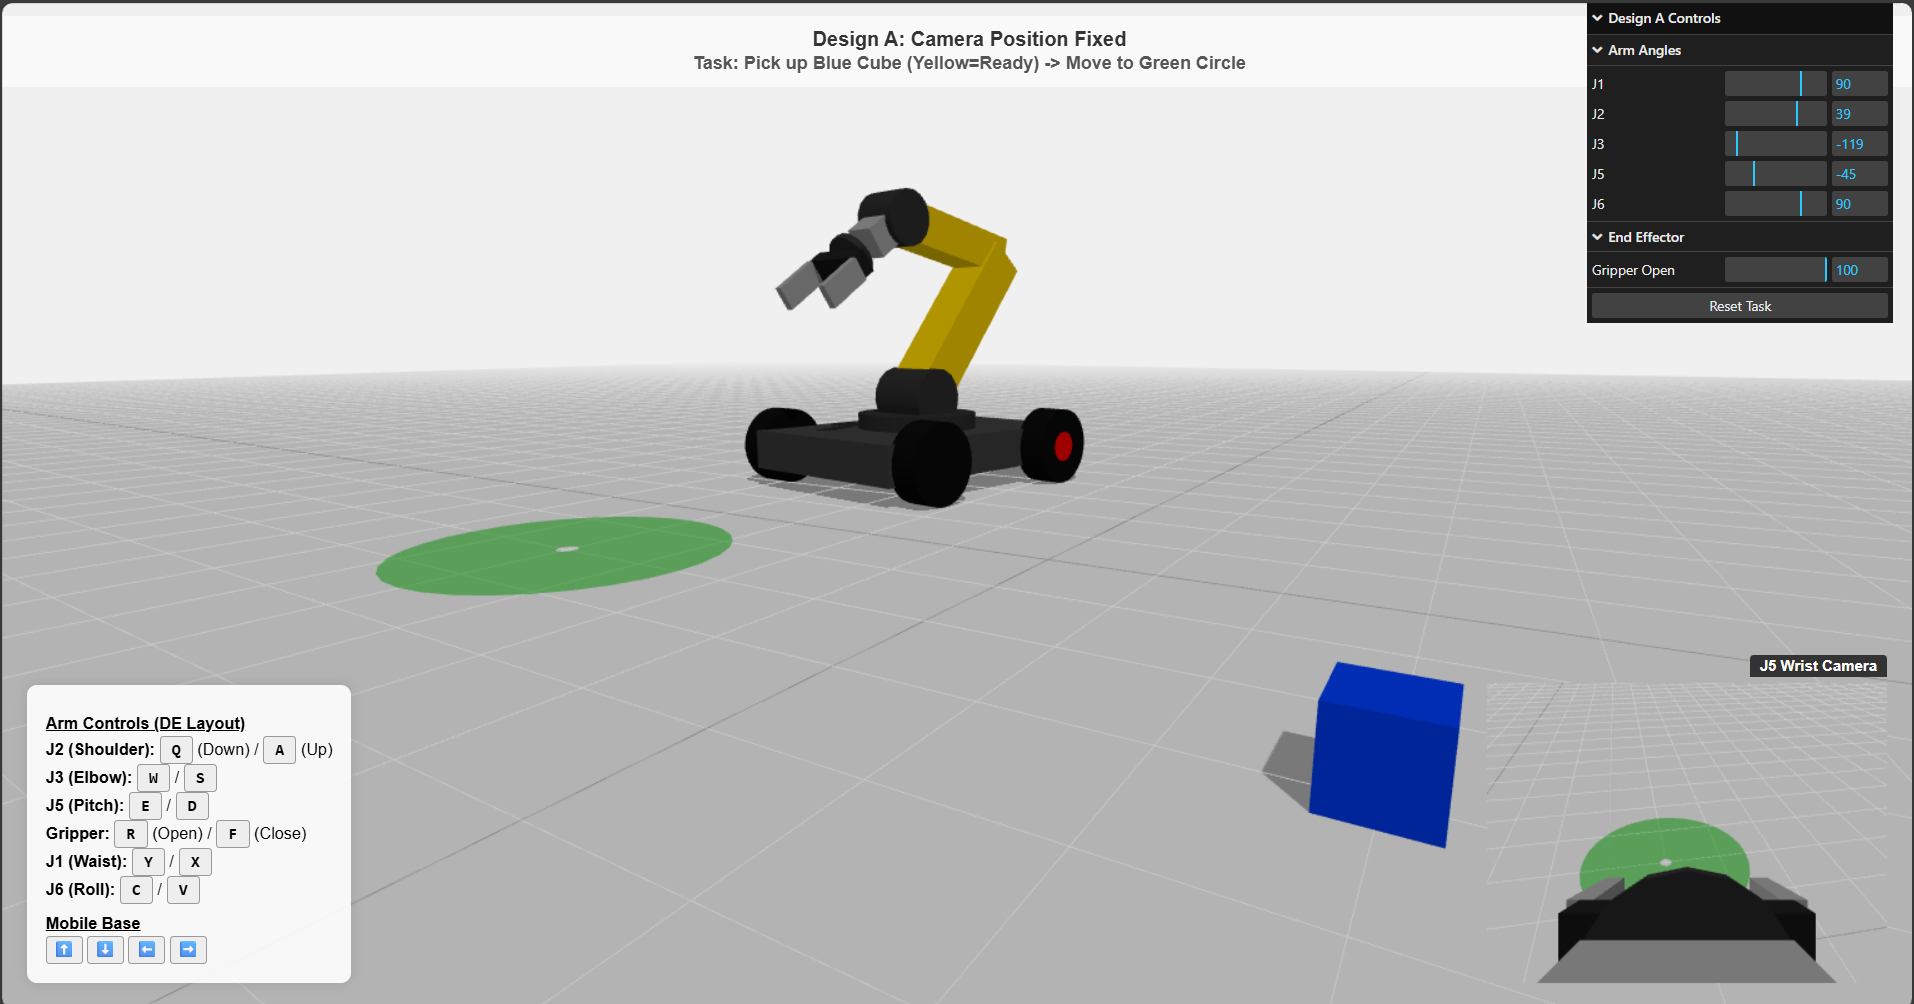
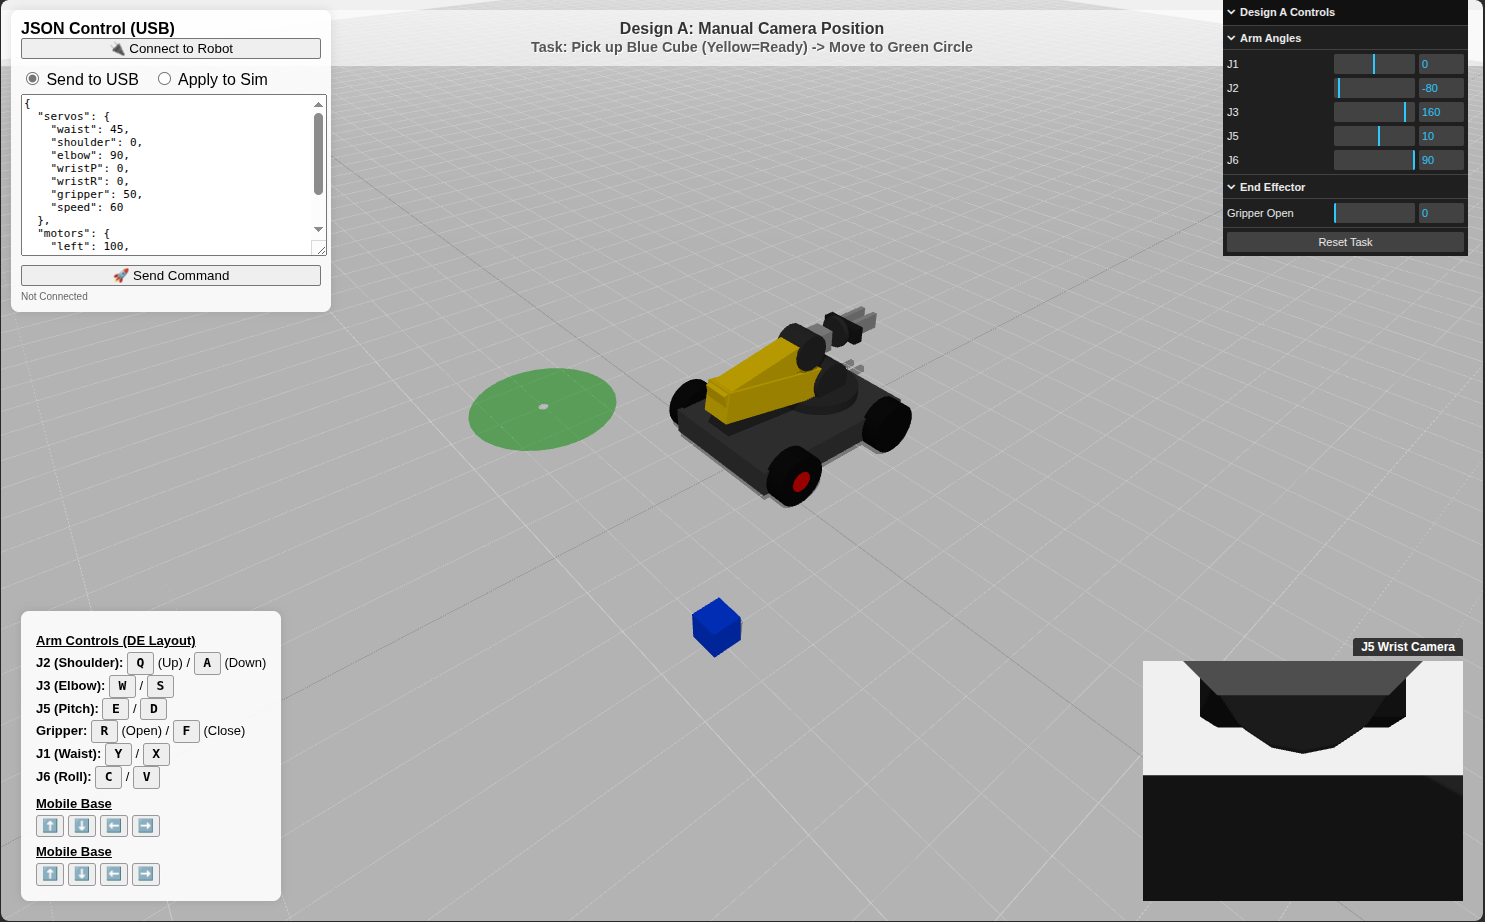
Update Readme

diff --git a/README.md b/README.md
@@ -14,8 +14,8 @@ This project implements the control system for [**RC Rover with Robot Arm 6 DOF*
 * **Microcontroller:** Arduino Mega 2560
 * **Radio Receiver:** RadioMaster Bandit BR1 (or compatible ExpressLRS receiver)
 * **Radio Transmitter:** Any EdgeTX/OpenTX radio (e.g., RadioMaster Zorro, TX16S)
-* **Motor Driver:** L298N, TB6612FNG, or similar dual H-Bridge driver for the base wheels.
-* **Servos:** 6x RC Servos (High torque recommended for Shoulder/Elbow).
+* **Motor Driver:** Dual H-Bridge driver compatible with PWM/DIR (e.g. customized L298N w/ inverter or Sabertooth).
+* **Servos:** 7x RC Servos (Dual servos for Shoulder).
 * **Power Supply:**
 * **5V/6V High-Amp BEC:** To power the servos (Do NOT power servos from the Arduino).
 * **Battery:** LiPo battery appropriate for your motors (e.g., 2S or 3S).
@@ -95,18 +95,19 @@ graph TD
 * **TX Pin**  Arduino **Pin 19 (RX1)**
 * **RX Pin**  Arduino **Pin 18 (TX1)** *(Optional, only needed if you want telemetry sent back to the radio)*
 
-#### B. Arm Servos (6x)
+#### B. Arm Servos (7x)
 
-Connect the **Signal (Yellow/Orange)** wire of each servo to the Arduino. Connect the **Power (Red)** and **Ground (Brown/Black)** to your external power rail (Breadboard/terminal strip).
+Connect the **Signal (Yellow/Orange)** wire of each servo to the Arduino.
 
 | Servo Joint | Arduino Pin |
 | --- | --- |
 | **Waist (J1)** | Pin **2** |
-| **Shoulder (J2)** | Pin **3** |
-| **Elbow (J3)** | Pin **4** |
-| **Wrist Pitch (J5)** | Pin **5** |
-| **Wrist Roll (J6)** | Pin **6** |
-| **Gripper** | Pin **7** |
+| **Shoulder Left (J2)** | Pin **3** |
+| **Shoulder Right (J2)** | Pin **4** |
+| **Elbow (J3)** | Pin **5** |
+| **Wrist Pitch (J5)** | Pin **6** |
+| **Wrist Roll (J6)** | Pin **7** |
+| **Gripper** | Pin **8** |
 
 #### C. Motor Driver (Example: L298N)
 
@@ -144,7 +145,7 @@ Since I cannot generate an image file, visualize the layout as follows:
 2. **Install Dependencies:**
 * Open Arduino IDE.
 * Go to `Sketch` -> `Include Library` -> `Manage Libraries...`
-* Search for **"AlfredoCRSF"** and **"ServoEasing"** and install it.
+* Search for **"AlfredoCRSF"**, **"ServoEasing"**, and **"ArduinoJson"** and install them.
 * (The standard `Servo` library is pre-installed).
 
 3. **Flash the Code:**
@@ -178,15 +179,43 @@ These mappings depend on your specific radio transmitter setup (Mixer), but the 
 
 To change pins or adjust speed/angles, look at the top of the script:
 
-```cpp
-// --- Pin Definitions ---
-const int PIN_WAIST     = 2;
-// ... change as needed
+```
 
-// --- Control Logic ---
-// Inside controlArm():
-sWaist.write(map(chWaist, 1000, 2000, 0, 180)); 
-// Change 0, 180 to limit travel (e.g., 45, 135)
+## 💻 Computer Control (Simulation & USB)
 
+This project includes a **Web Simulation** (`6dof_robotic_arm.html`) that allows you to control the robot via USB Serial using JSON commands.
 
+### How to Use
+
+1. **Upload Code:** Ensure `6dof_robotic_arm.ino` is running on the Mega.
+2. **Open Simulation:** Open `6dof_robotic_arm.html` in a Chrome/Edge browser.
+3. **Connect:** Click the **Connect to Robot** button and select the Arduino's COM port.
+4. **Control:**
+    * Use the **Radio Buttons** to select the target:
+        * **Send to USB:** Sends the command to the physical robot.
+        * **Apply to Sim:** Animates the simulation to preview the move.
+    * Use the **JSON Control** panel to send commands.
+
+### JSON Command Format
+
+You can control Servos and Motors. Fields are optional (omitted fields remain unchanged).
+
+**Example Command:**
+```json
+{
+  "servos": {
+    "waist": 90,       // Angle (deg)
+    "shoulder": 45,    // Angle (deg)
+    "elbow": 160,      // Angle (deg)
+    "wristP": 90,      // Angle (deg)
+    "wristR": 90,      // Angle (deg)
+    "gripper": 0,      // 0-100 (Open/Close)
+    "speed": 60        // Speed (deg/sec)
+  },
+  "motors": {
+    "left": 255,       // Speed (-255 to 255)
+    "right": 255,      // Speed (-255 to 255)
+    "duration": 1000   // Duration (ms)
+  }
+}
 ```
